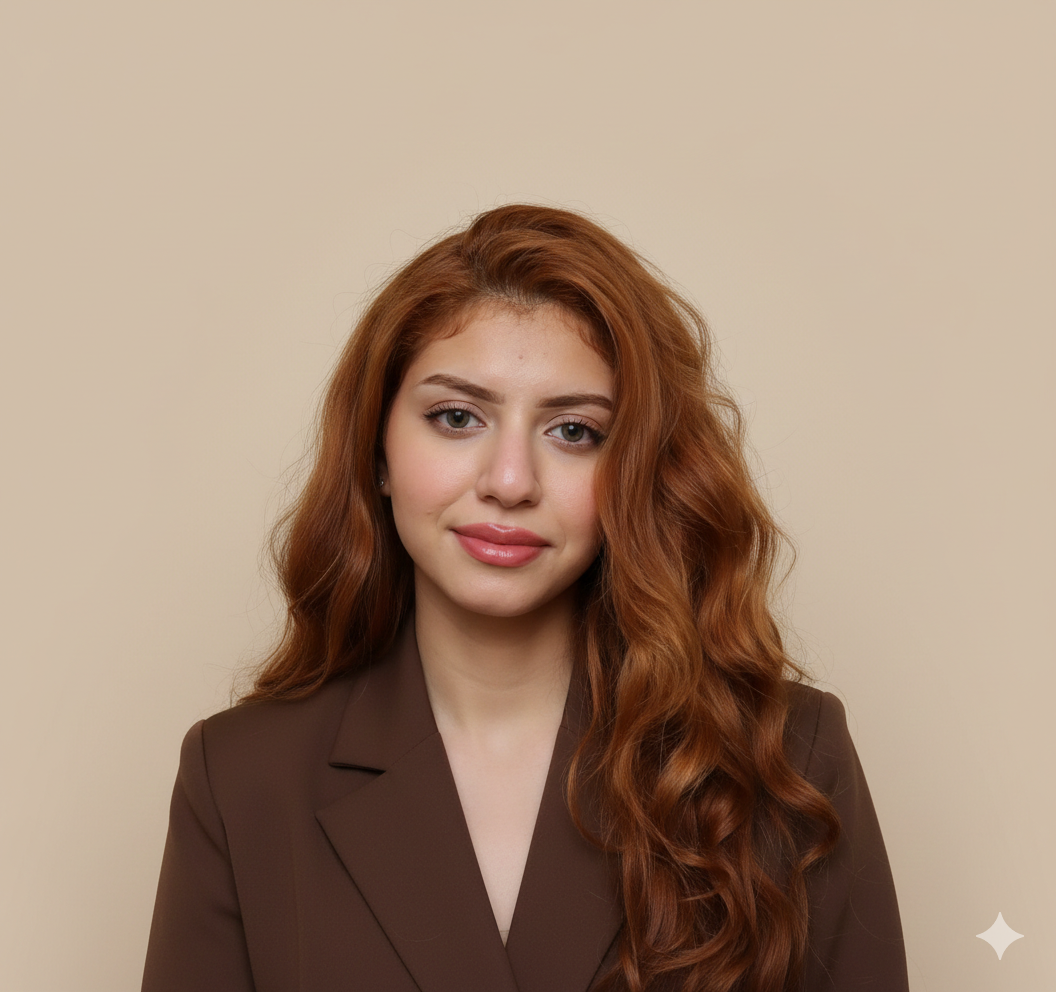
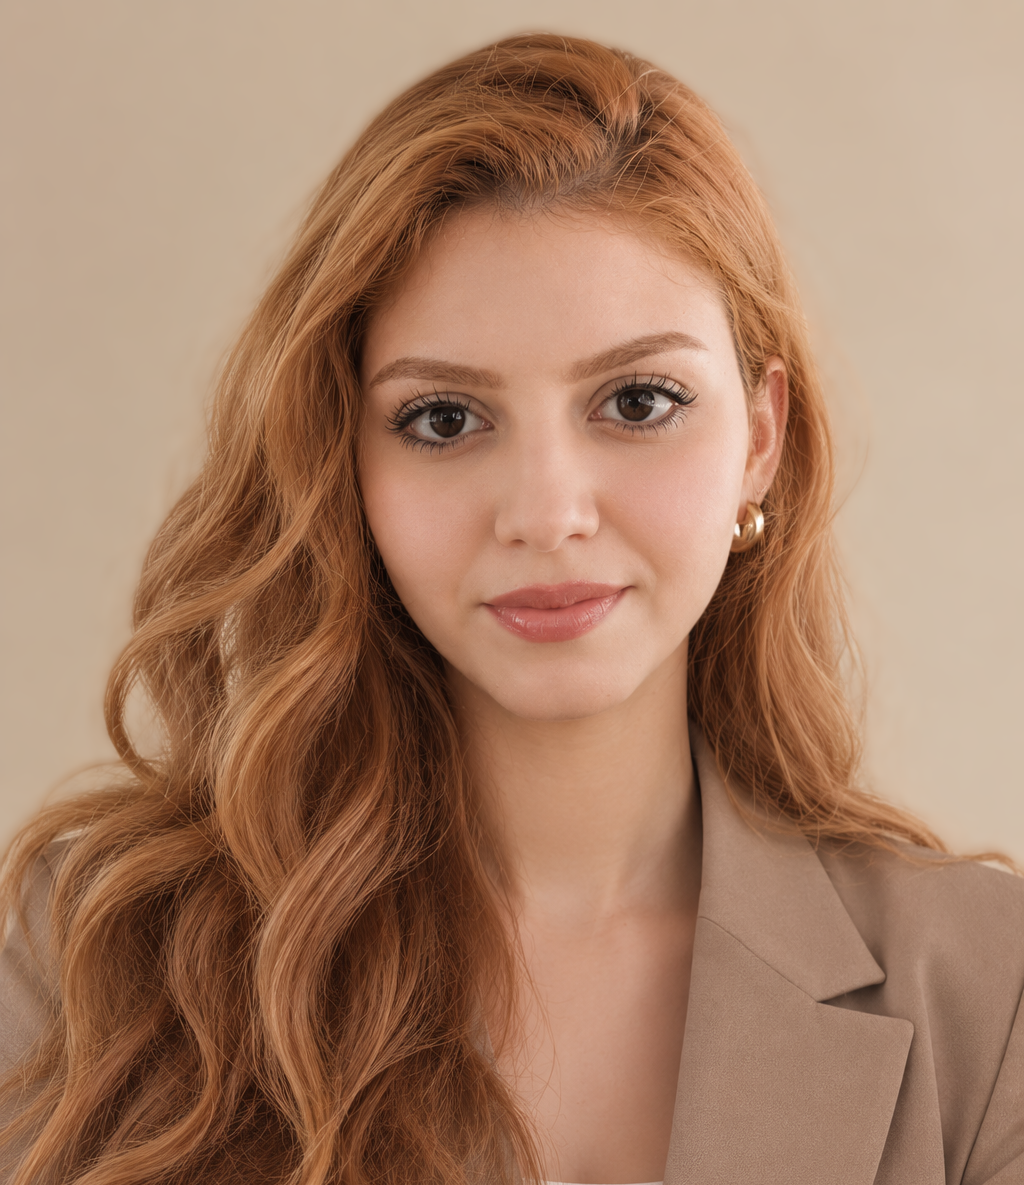
changing img

diff --git a/src/data/projects.js b/src/data/projects.js
@@ -5,7 +5,7 @@ export const projects = [
     title: "applyAI – AI-Powered Job Application Tracker",
     description:
       "Architected a distributed microservices system with Eureka service discovery, API Gateway, rate limiting, and Redis caching. Secured the platform using Keycloak (OAuth2/OIDC) and built an async AI service consuming RabbitMQ events to return CV recommendations, missing keywords, and rewritten bullet points. Developed a React/TypeScript frontend with Redux & React Router; containerized all services with Docker.",
-    image: "/applyAI.png",
+    image: `${import.meta.env.BASE_URL}applyAI.png`,
     github: "https://github.com/Fatima-Ezzahra33/apply-ai",
     status: "Finished",
     category: "fullstack",
@@ -30,7 +30,7 @@ export const projects = [
     title: "BiblioTech – Online Library Platform",
     description:
       "Full-stack library management platform with strict role-based access control. Readers can browse, search, and filter books by category, manage favorites and a personal reading library, and read books directly online. Authors can publish books and create custom categories. Both roles benefit from full profile management and secure authentication with encrypted passwords.",
-    image: "/biblio.png",
+    image: `${import.meta.env.BASE_URL}biblio.png`,
     github: "",
     status: "Finished",
     category: "fullstack",
@@ -41,7 +41,7 @@ export const projects = [
     title: "PetMatch – Intelligent Pet Adoption Platform",
     description:
       "Led a 5-member development team using Agile Scrum methodology. Architected core features including user authentication, pet profiles, and adoption workflows. Integrated AI-powered recommendation engine via Grok AI API for personalized pet matching. Established automated testing with PHPUnit, Vitest and Cypress, achieving 85% code coverage.",
-    image: "/petmatch.png",
+    image: `${import.meta.env.BASE_URL}petmatch.png`,
     github: "https://github.com/Fatima-Ezzahra33/petMatch",
     status: "Finished",
     category: "fullstack",
@@ -61,7 +61,7 @@ export const projects = [
     title: "GOMAT – Internal Management System",
     description:
       "Contributed to the design and development of a full-stack internal management web application for enterprise operations during internship at GOMAT, Casablanca. Implemented complete CI/CD pipeline with multi-stage Docker containerization, automated testing, and continuous deployment across staging and production environments.",
-    image: "/GOMAT.jpg",
+    image: `${import.meta.env.BASE_URL}GOMAT.jpg`,
     github: "",
     status: "Finished",
     category: "fullstack",
@@ -80,7 +80,7 @@ export const projects = [
     title: "YomogoMed – Digital Clinical Management Platform",
     description:
       "Designed a digital clinical management platform using microservices architecture (6 independent services) with asynchronous communication via RabbitMQ, with multi-tenant preparation (Row-Level Security PostgreSQL, MongoDB partitioning). Developed a local RAG chatbot (FastAPI, LangChain, Ollama, pgvector) for patient orientation and conversational appointment booking, guaranteeing zero data exfiltration. Implemented a dual-level medical record (detailed per service vs global summary) with immutable access traceability, compliant with Moroccan Law 09-08; secured via Keycloak (SSO, JWT, MFA) and Ocelot API Gateway (rate limiting, JWT validation).",
-    image: "/yomogomed.png",
+    image: `${import.meta.env.BASE_URL}yomogomed.png`,
     github: "",
     status: "In Progress",
     category: "fullstack",
@@ -112,7 +112,7 @@ export const projects = [
       "Tumor Segmentation – Brain Tumor Classification via Deep Learning on MRI",
     description:
       "Designed and trained a CNN in PyTorch to classify brain MRIs into 4 categories (glioma, meningioma, pituitary, no_tumor), with data augmentation and Dropout regularization to optimize generalization. Built a complete ML pipeline, with evaluation on independent test set (confusion matrix, F1-score). Developed an assisted diagnosis web application with Streamlit (image upload, real-time prediction, probability visualization) and Docker containerization for portable deployment.",
-    image: "/tumor.png",
+    image: `${import.meta.env.BASE_URL}tumor.png`,
     github: "",
     status: "Finished",
     category: "datascience",
@@ -132,7 +132,7 @@ export const projects = [
       "Autoimmune Disease Classification – Predictive Analysis on Clinical Data",
     description:
       "ML pipeline on clinical data with preprocessing and feature engineering. Trained and compared models (Logistic Regression, Random Forest, XGBoost), achieving an F1-score of 0.995 and AUC of 0.995 on test data. Analyzed prediction interpretability via SHAP to identify the most discriminating biomarkers, facilitating clinical understanding of results.",
-    image: "/autoimmune.png",
+    image: `${import.meta.env.BASE_URL}autoimmune.png`,
     github: "",
     status: "Finished",
     category: "datascience",

diff --git a/src/sections/Hero.jsx b/src/sections/Hero.jsx
@@ -60,7 +60,7 @@ function Hero() {
       {/*Bg*/}
       <div className="absolute inset-0">
         <img
-          src="/hero-bg.jpg"
+          src={`${import.meta.env.BASE_URL}hero-bg.jpg`}
           alt="Hero image"
           className="w-full h-full object-cover opacity-40 "
         />
@@ -118,7 +118,10 @@ function Hero() {
               <Button size="lg">
                 Contact me <ArrowRight className="w-5 h-5" />
               </Button>
-              <a href="/fzCv.pdf" download="CV-Abdessettar-Fatima-Ezzahra">
+              <a
+                href={`${import.meta.env.BASE_URL}fzCv.pdf`}
+                download="CV-Abdessettar-Fatima-Ezzahra"
+              >
                 <AnimatedBorderButton>
                   <Download className="w-5 h-5" />
                   Download CV
@@ -156,7 +159,7 @@ function Hero() {
               {/* Image container (NOT blurred) */}
               <div className="relative glass rounded-4xl p-2 glow-border z-10">
                 <img
-                  src="/linkedin.png"
+                  src={`${import.meta.env.BASE_URL}linkedin.png`}
                   alt="Abdessettar Fatima-Ezzahra"
                   className="w-full aspect-4/5 object-cover rounded-3xl"
                 />

diff --git a/src/layout/NavBar.jsx b/src/layout/NavBar.jsx
@@ -43,7 +43,10 @@ const NavBar = () => {
             ))}
           </div>
         </div>
-        <a href="/fzCv.pdf" download="CV-Abdessettar-Fatima-Ezzahra">
+        <a
+          href={`${import.meta.env.BASE_URL}fzCv.pdf`}
+          download="CV-Abdessettar-Fatima-Ezzahra"
+        >
           <Button size="sm" classname="hidden md:block">
             Resume
           </Button>
@@ -72,7 +75,10 @@ const NavBar = () => {
                 {link.Label}
               </a>
             ))}
-            <a href="/fzCv.pdf" download="CV-Abdessettar-Fatima-Ezzahra">
+            <a
+              href={`${import.meta.env.BASE_URL}fzCv.pdf`}
+              download="CV-Abdessettar-Fatima-Ezzahra"
+            >
               <Button size="default" classname="w-full">
                 Resume{" "}
               </Button>

diff --git a/src/pages/ProjectDetails.jsx b/src/pages/ProjectDetails.jsx
@@ -61,7 +61,7 @@ function ProjectDetails() {
   const catConfig =
     categoryConfig[project.category] || categoryConfig.fullstack;
   const CategoryIcon = catConfig.icon;
-  const videoPath = `/videos/${project.id}.mp4`;
+  const videoPath = `${import.meta.env.BASE_URL}videos/${project.id}.mp4`;
 
   const handleVideoClick = () => {
     const video = document.getElementById("demo-video");
